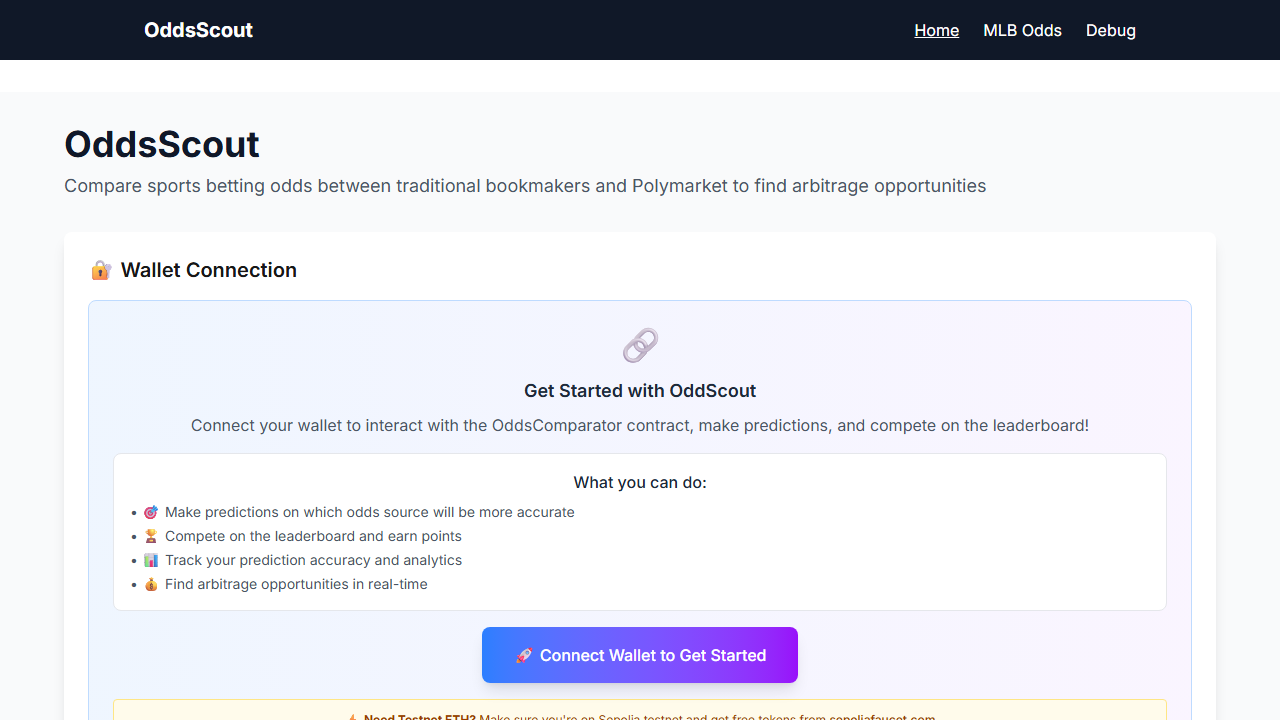
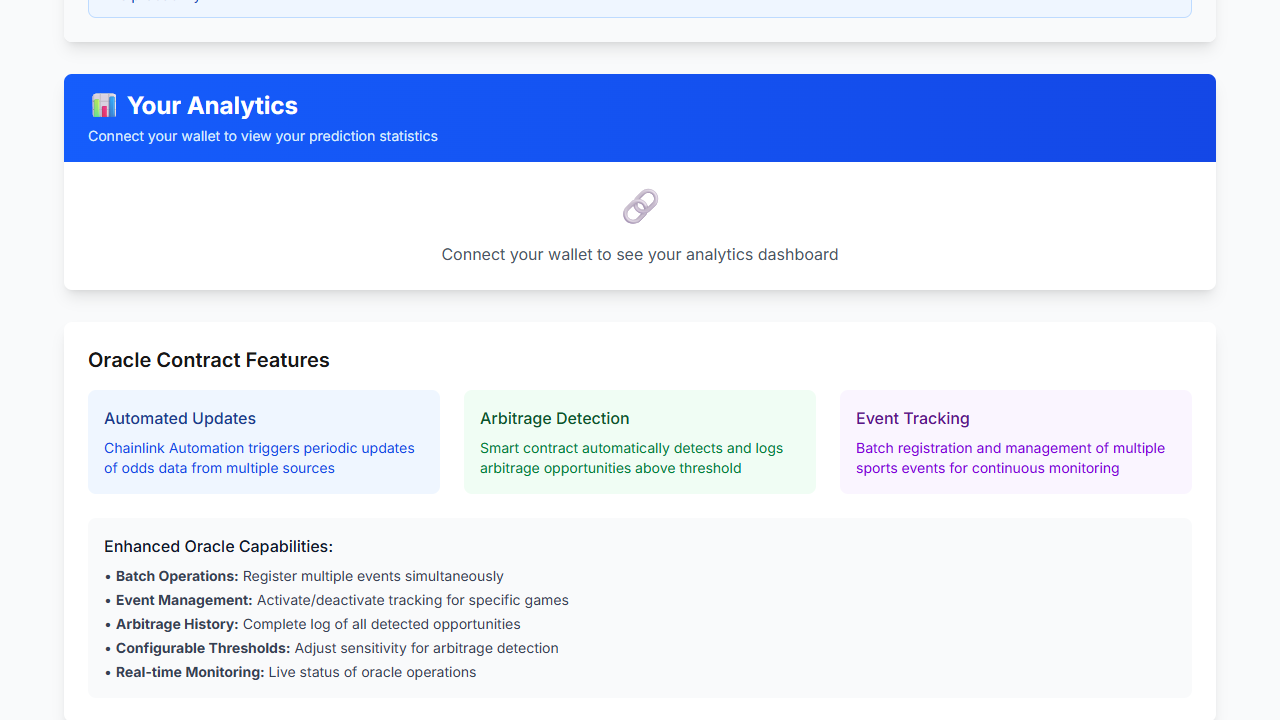
Recapture OddScout demo with scroll-to-oracle framing.
Scroll the capture to Oracle Contract Features so the profile thumbnail shows product UI instead of the wallet-connect landing page.

diff --git a/scripts/capture-screenshots.js b/scripts/capture-screenshots.js
@@ -9,7 +9,12 @@ const targets = [
   { name: "waxmark", url: "https://waxmark.app/", wait: 4000 },
   { name: "wedding", url: "https://ashbyanddavid.com/", wait: 4000 },
   { name: "ballknower", url: "https://ballknower.vercel.app/", wait: 4000 },
-  { name: "oddscout", url: "https://odd-scout.vercel.app/", wait: 4000 },
+  {
+    name: "oddscout",
+    url: "https://odd-scout.vercel.app/",
+    wait: 3000,
+    scrollTo: "Oracle Contract Features",
+  },
   { name: "portfolio", url: "https://daveyrockets.me", wait: 3000 },
   {
     name: "dao-gas",
@@ -28,6 +33,25 @@ const targets = [
   },
   { name: "dishswap", url: "https://dishswap.vercel.app/", wait: 3000 },
 ];
+
+async function preparePage(page, target) {
+  await page.waitForTimeout(target.wait ?? 3000);
+
+  if (target.scrollTo) {
+    const heading = page.getByRole("heading", { name: target.scrollTo }).first();
+    if (await heading.count()) {
+      await heading.scrollIntoViewIfNeeded();
+      await page.waitForTimeout(500);
+      return;
+    }
+    console.warn(`Scroll target not found for ${target.name}: ${target.scrollTo}`);
+  }
+
+  if (target.scrollY) {
+    await page.evaluate((y) => window.scrollTo(0, y), target.scrollY);
+    await page.waitForTimeout(500);
+  }
+}
 
 async function renderBanner(page) {
   const svgMarkup = fs.readFileSync(bannerSvg, "utf8");
@@ -64,7 +88,7 @@ async function renderBanner(page) {
       console.log(`Capturing ${target.name} -> ${target.url}`);
       await page.setViewportSize({ width: 1280, height: 720 });
       await page.goto(target.url, { waitUntil: "networkidle", timeout: 60000 });
-      await page.waitForTimeout(target.wait);
+      await preparePage(page, target);
       await page.screenshot({
         path: path.join(outDir, `${target.name}.png`),
         fullPage: false,
